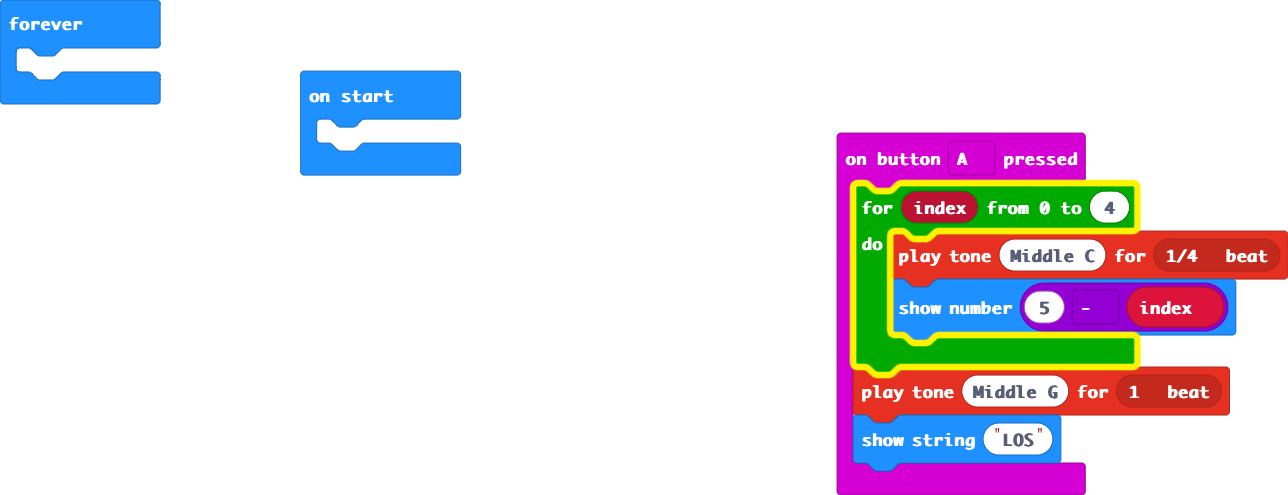
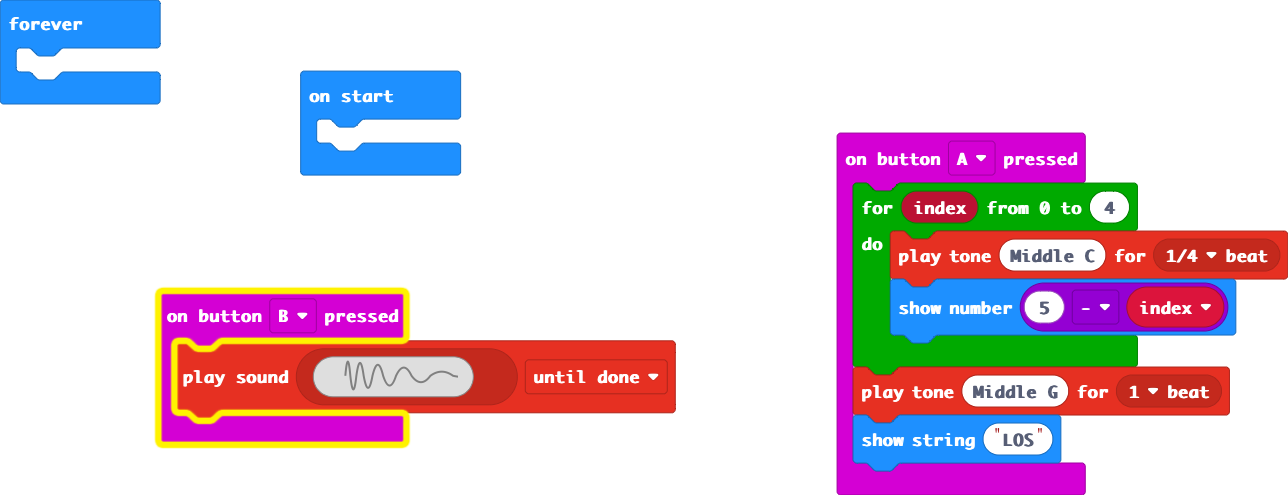
A german countdown

Changed region(s): [[0.0932, 0.5758, 0.528, 0.9091], [0.6522, 0.3636, 0.9006, 0.7576]]

diff --git a/main.ts b/main.ts
@@ -6,6 +6,9 @@ input.onButtonPressed(Button.A, function () {
     music.playTone(392, music.beat(BeatFraction.Whole))
     basic.showString("LOS")
 })
+input.onButtonPressed(Button.B, function () {
+    music.playSoundEffect(music.createSoundEffect(WaveShape.Sine, 5000, 0, 255, 0, 500, SoundExpressionEffect.None, InterpolationCurve.Linear), SoundExpressionPlayMode.UntilDone)
+})
 basic.forever(function () {
 	
 })
